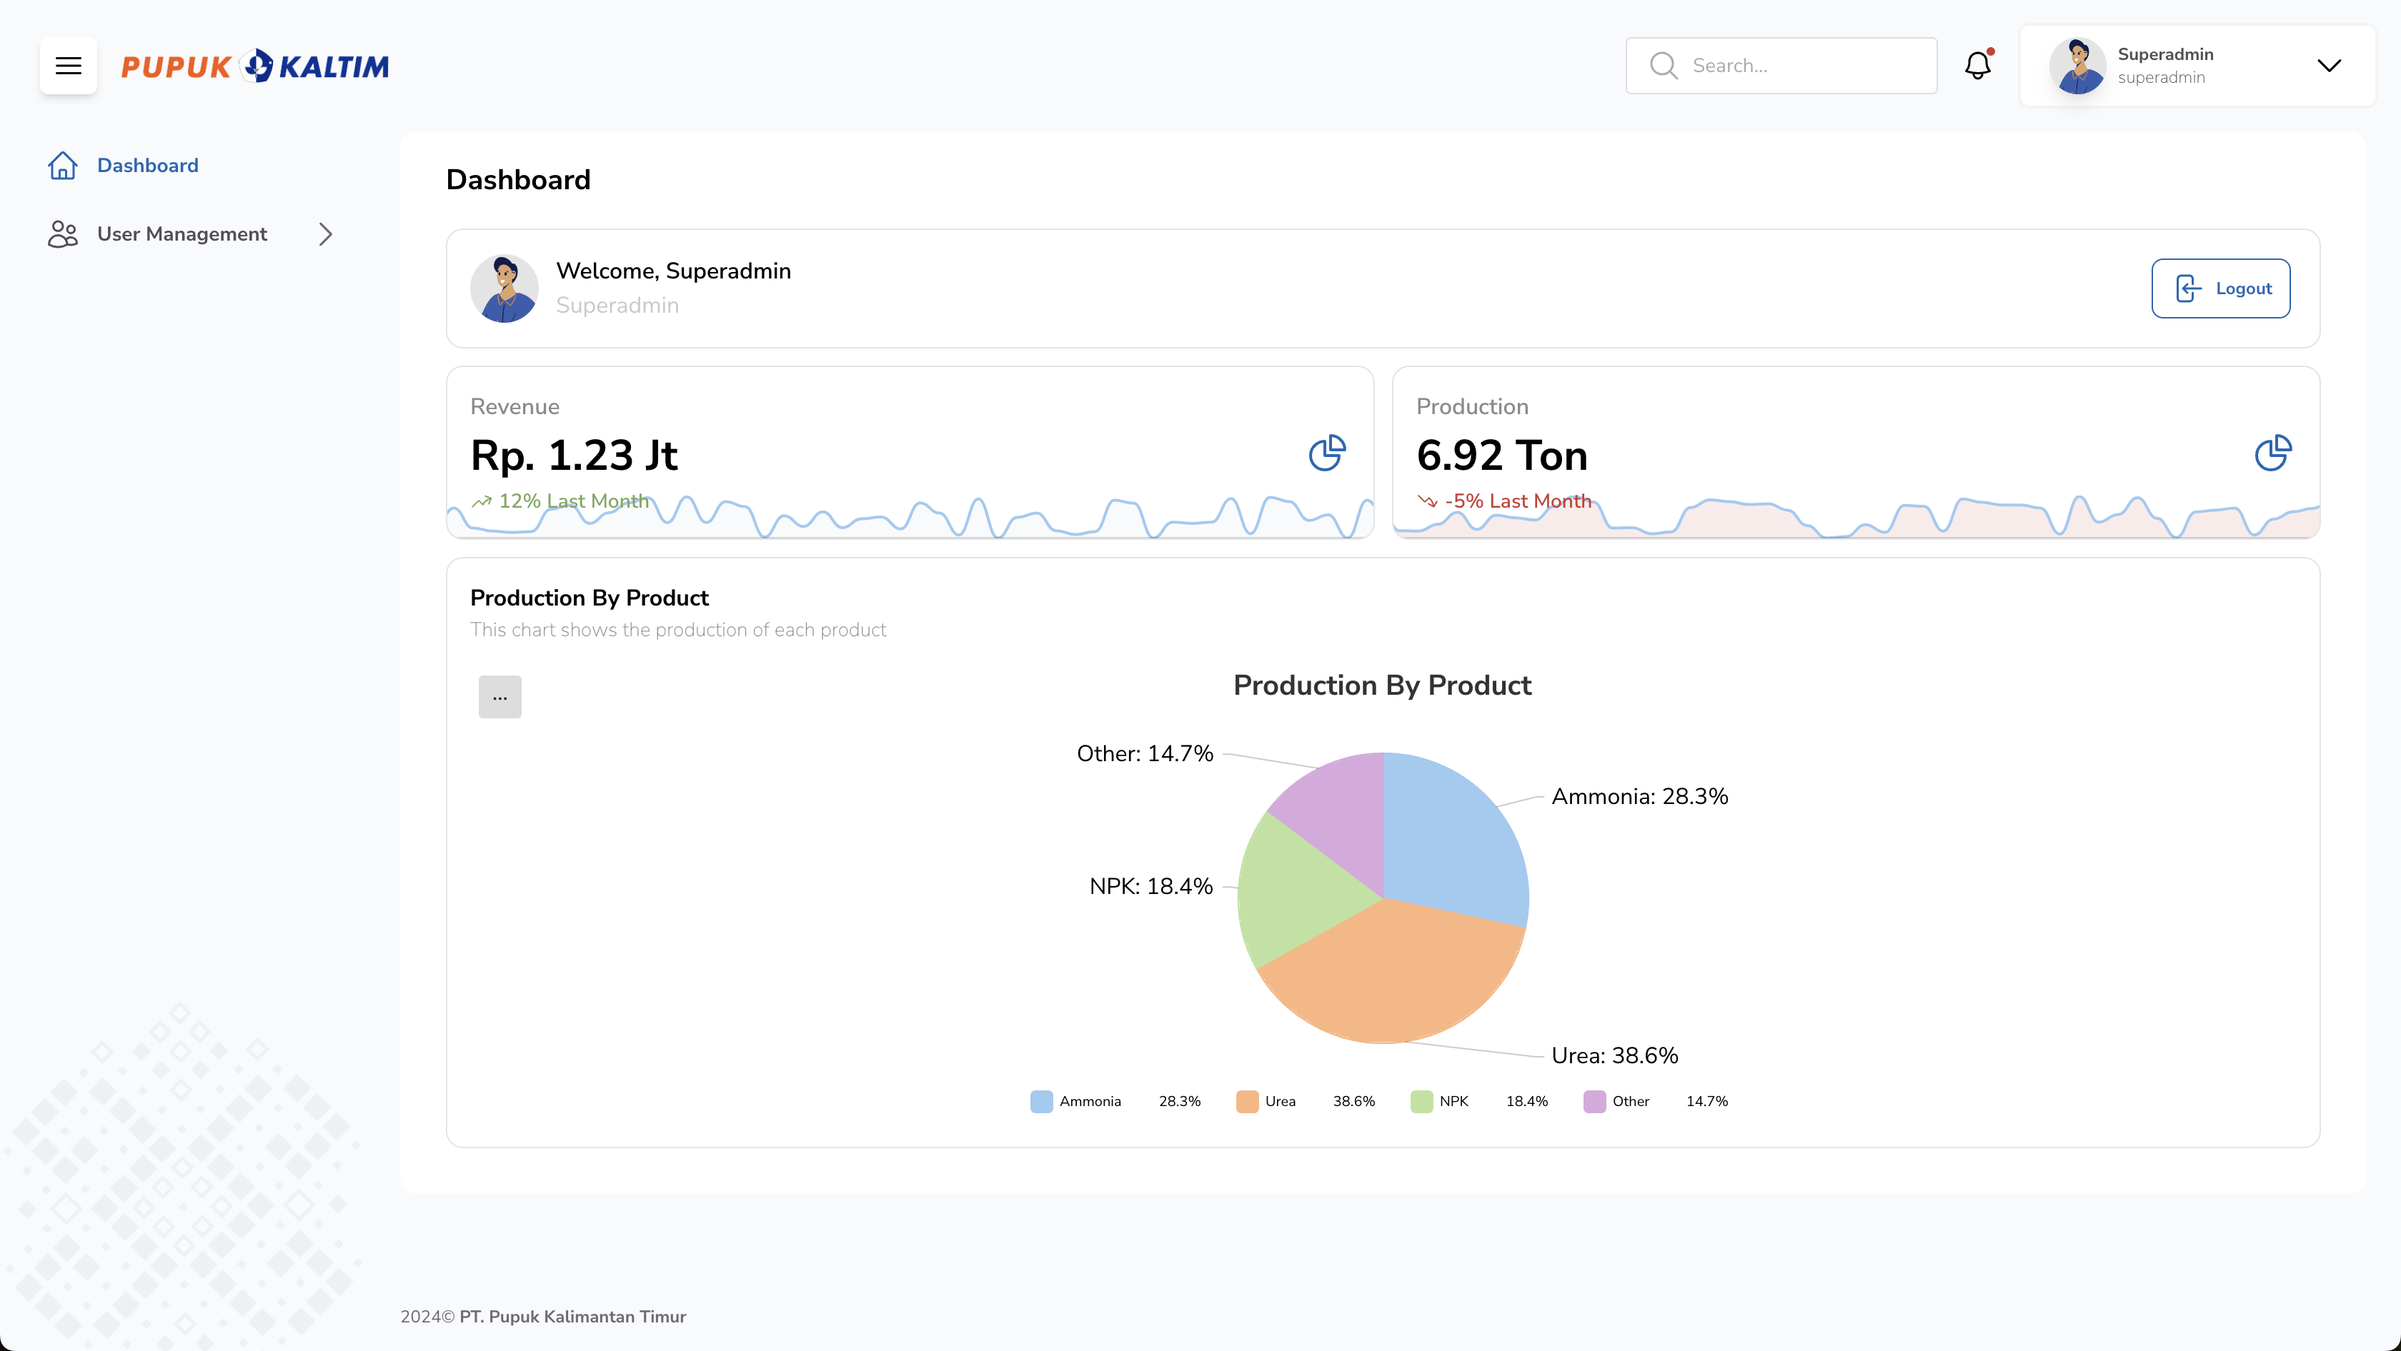
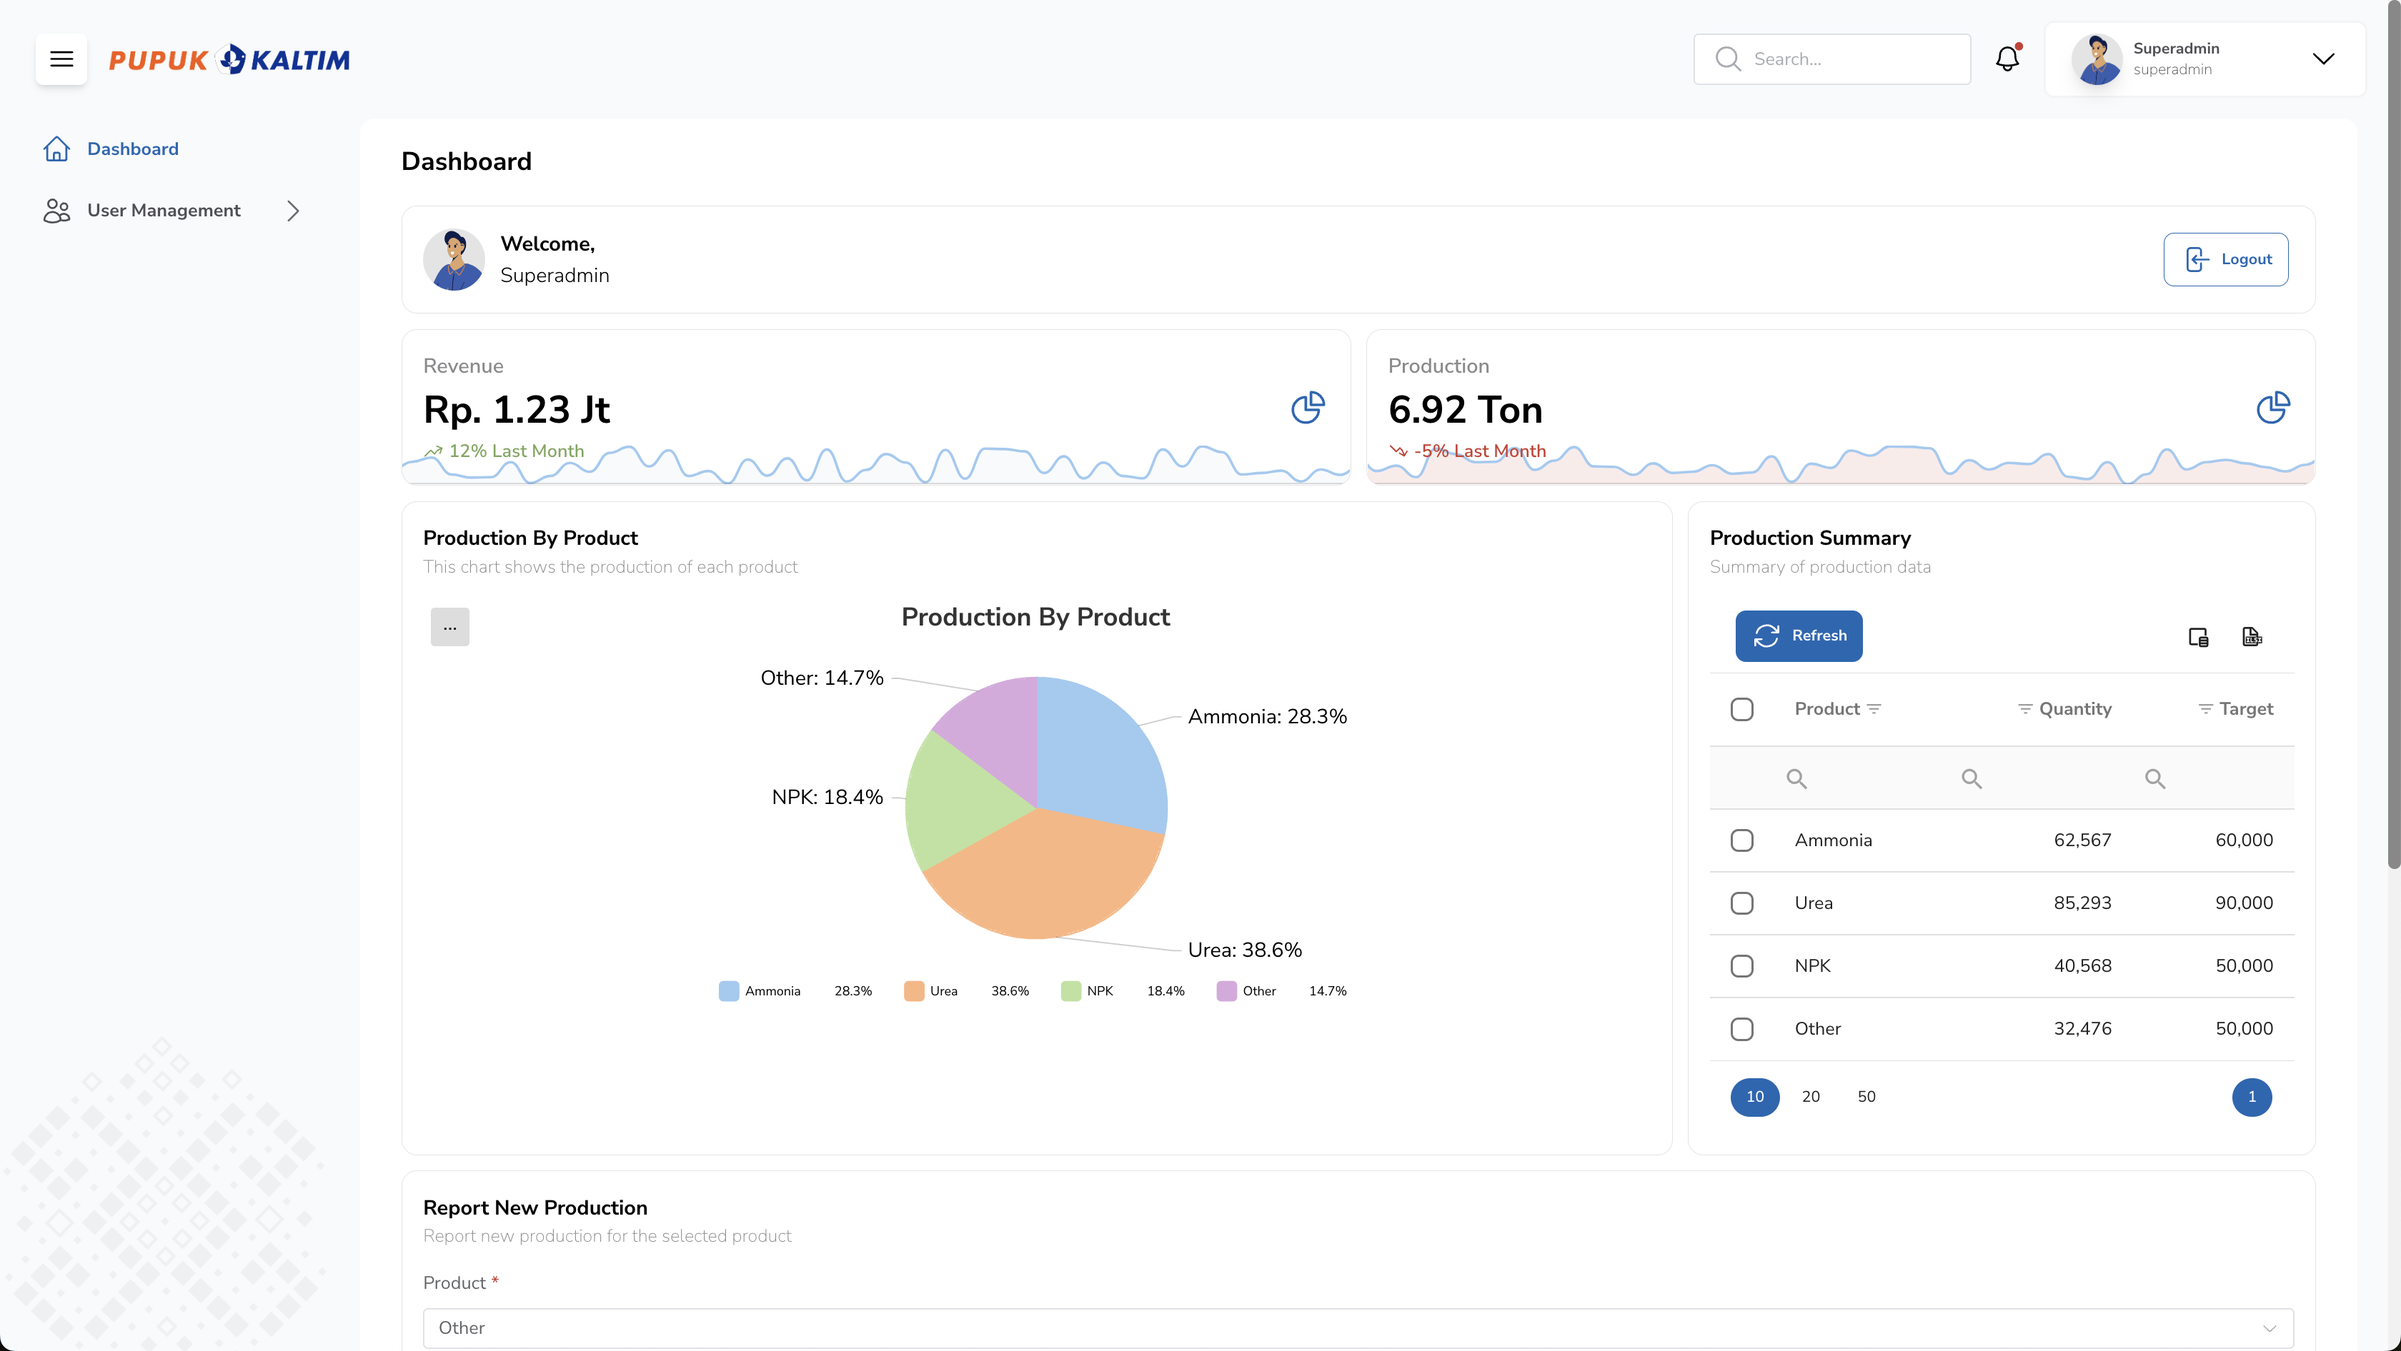
🎨 style(Home.png): update Home.png image file ✨ feat(Home.vue): add ProductionSummary and ReportNewProduction components to Home.vue to display production summary and allow reporting new production 📄 add(ProductionSummary.vue): add ProductionSummary component to display production summary data in a 

diff --git a/stubs/vue/resources/js/Widgets/Home/ProductionSummary.vue b/stubs/vue/resources/js/Widgets/Home/ProductionSummary.vue
@@ -1,0 +1,201 @@
+<template>
+    <div class="p-4 rounded-xl border border-gray-400 flex-1">
+    <div class="flex flex-row justify-between mb-4">
+        <div>
+            <div class="font-bold">Production Summary</div>
+            <div class="font-thin text-gray-700 text-sm">Summary of production data</div>
+        </div>
+    </div>
+    <div>
+        <DxDataGrid ref="datagridRef" :data-source="dataSource" key="product_id" :column-auto-width="true"
+            :remote-operations="remoteOperations" :item-per-page="10" @selection-changed="onSelectionChanged"
+            @exporting="onExporting">
+            <DxFilterRow :visible="true" />
+            <DxExport :enabled="true" />
+            <DxSelection select-all-mode="page" show-check-boxes-mode="always" mode="multiple" />
+            <DxColumnChooser :enabled="true" mode="select" />
+            <DxHeaderFilter :visible="true" />
+            <DxPaging :page-size="10" />
+            <DxPager :visible="true" :allowed-page-sizes="[10, 20, 50]" :show-page-size-selector="true" />
+
+            <!-- End your column here -->
+            <DxColumn data-field="product" caption="Product" />
+            <DxColumn data-field="quantity" caption="Quantity" :dataType="'number'">
+                <DxFormat type="fixedPoint" :precision="0" />
+            </DxColumn>
+            <DxColumn data-field="target" caption="Target" :dataType="'number'">
+                <DxFormat type="fixedPoint" :precision="0" />
+            </DxColumn>
+            <!-- End your column here -->
+
+            <DxToolbar>
+                <DxItem location="before" template="buttonTemplate" />
+                <DxItem name="columnChooserButton" />
+                <DxItem name="exportButton" />
+            </DxToolbar>
+            <template #buttonTemplate>
+                <div class="flex flex-row w-full">
+                    <Transition name="fadetransition" mode="out-in" appear>
+                        <div v-if="!itemSelected">
+                            <BsButton type="primary" icon="arrow-path" @click="refreshDatagrid">Refresh</BsButton>
+                        </div>
+                        <div v-else class="h-auto flex items-center px-4">
+                            <BsIconButton icon="x-mark" class="mr-2" @click="clearSelection" />
+                            <span class="font-bold mr-4">{{ dataSelected.length }} dipilih</span>
+                        </div>
+                    </Transition>
+                </div>
+            </template>
+        </DxDataGrid>
+    </div>
+</div>
+</template>
+
+<script setup>
+import { defineProps, ref, computed } from 'vue';
+import BsButton from '@/Components/BsButton.vue';
+import BsIconButton from '@/Components/BsIconButton.vue';
+import {
+    DxColumn,
+    DxColumnChooser,
+    DxDataGrid,
+    DxExport,
+    DxFormat,
+    DxHeaderFilter,
+    DxFilterRow,
+    DxItem,
+    DxPager,
+    DxPaging,
+    DxSelection,
+    DxToolbar
+} from 'devextreme-vue/data-grid';
+import CustomStore from "devextreme/data/custom_store";
+import { exportDataGrid } from 'devextreme/excel_exporter';
+import { Workbook } from 'exceljs';
+import { saveAs } from 'file-saver';
+
+const props = defineProps({
+    dataSource: {
+        type: Array,
+        // Only for dummy data, you can remove this
+        default: () => {
+            let data = [];
+            for (let i = 0; i < 50; i++) {
+                data.push({
+                    product_id: i + 1,
+                    product: `Product ${i + 1}`,
+                    quantity: Math.floor(Math.random() * 100),
+                    target: Math.floor(Math.random() * 100),
+                });
+            }
+            return data;
+        },
+    }
+});
+
+// Ref and Variables
+const datagridRef = ref();
+const allMode = ref("page");
+const dataGridAction = ref("index");
+const btnEditVisible = ref(false);
+const btnDeleteVisible = ref(false);
+const dataSelected = ref([]);
+var itemSelected = computed(() => dataSelected.value.length > 0);
+
+// Remote Operations
+const remoteOperations = ref({
+    paging: true,
+    filtering: true,
+    sorting: true,
+});
+
+function isNotEmpty(value) {
+    return value !== undefined && value !== null && value !== "";
+};
+
+// ========================================================================
+// If you want to use server side processing
+// ========================================================================
+// const dataSource = new CustomStore({
+//     key: "user_id",
+//     load: function (loadOptions) {
+//         let params = "?";
+//         ["skip", "take", "requireTotalCount", "sort", "filter"].forEach(
+//             function (i) {
+//                 if (i in loadOptions && isNotEmpty(loadOptions[i])) {
+//                     params += `${i}=${JSON.stringify(loadOptions[i])}&`;
+//                 }
+//             }
+//         );
+//         params = params.slice(0, -1);
+
+//         if (dataGridAction.value == "select.all") {
+//             if (allMode.value == "allPages") {
+//                 return axios.get(route('user.data_processing'), { params: params })
+//                     .then((response) => {
+//                         dataGridAction.value = "index";
+//                         data = response.data;
+//                     })
+//                     .catch((error) => { });
+//             } else {
+//                 dataGridAction.value = "index";
+//             }
+//         } else {
+//             return axios.get(route('user.data_processing') + params)
+//                 .then((response) => {
+//                     dataGridAction.value = "index";
+//                     return response.data;
+//                 })
+//                 .catch((error) => { });
+//         }
+//     }.bind(this),
+// });
+
+// On Refresh Datagrid
+function refreshDatagrid() {
+    datagridRef.value.instance.refresh();
+};
+
+// On Selection Changed
+function onSelectionChanged(data) {
+    dataSelected.value = data.selectedRowsData;
+
+    if (data.selectedRowKeys.length < 1) {
+        btnEditVisible.value = false;
+        btnDeleteVisible.value = false;
+    } else if (data.selectedRowKeys.length == 1) {
+        btnEditVisible.value = true;
+        btnDeleteVisible.value = true;
+    } else {
+        btnEditVisible.value = false;
+        btnDeleteVisible.value = false;
+    }
+};
+
+// On Exporting
+function onExporting(e) {
+    const workbook = new Workbook();
+    const worksheet = workbook.addWorksheet('Production Summary');
+    var fileName = "data-Production Summary"
+
+    exportDataGrid({
+        component: e.component,
+        worksheet,
+        autoFilterEnabled: true,
+    }).then(() => {
+        workbook.xlsx.writeBuffer().then((buffer) => {
+            saveAs(new Blob([buffer], { type: 'application/octet-stream' }), fileName + '.xlsx');
+        });
+    });
+
+    e.cancel = true;
+};
+
+// Clear Selection
+function clearSelection() {
+    const dataGrid = datagridRef.value.instance;
+    dataGrid.clearSelection();
+    dataSelected.value = [];
+}
+
+</script>

diff --git a/stubs/vue/resources/js/Widgets/Home/ReportNewProduction.vue b/stubs/vue/resources/js/Widgets/Home/ReportNewProduction.vue
@@ -1,0 +1,139 @@
+<template>
+    <div class="p-4 rounded-xl border border-gray-400 flex-1">
+        <div class="flex flex-row justify-between mb-4">
+            <div>
+                <div class="font-bold">Report New Production</div>
+                <div class="font-thin text-gray-700 text-sm">Report new production for the selected product</div>
+            </div>
+        </div>
+        <div>
+            <el-form ref="formRef" :model="form" label-width="200px" label-position="top"
+                require-asterisk-position="right" autocomplete="off">
+
+                    <!-- Your form here -->
+                    <el-form-item :error="getFormError('product_id')" prop="product_id" label="Product" :required="true">
+                        <el-select v-model="form.product_id" placeholder="Select Product" class="!w-full">
+                            <el-option v-for="item in product" :key="item.product_id" :label="item.product" :value="item.product_id" />
+                        </el-select>
+                    </el-form-item>
+
+                    <div class="grid sm:grid-cols-2 gap-3">
+                        <el-form-item :error="getFormError('quantity')" prop="quantity" label="Quantity" :required="true">
+                            <el-input type="number" v-model="form.quantity" autocomplete="one-time-code" autocorrect="off" spellcheck="false" class="!w-full" />
+                        </el-form-item>
+                        <el-form-item :error="getFormError('target')" prop="target" label="Target" :required="true">
+                            <el-input type="number" v-model="form.target" autocomplete="one-time-code" autocorrect="off" spellcheck="false" class="!w-full" />
+                        </el-form-item>
+                    </div>
+
+                    <el-form-item :error="getFormError('media_report')" prop="media_report" label="Report" :required="true">
+                        <el-upload
+                            drag
+                            v-model:file-list="form.media_report"
+                            class="!w-full"
+                            :auto-upload="false"
+                            :limit="1"
+                            accept="image/jpeg,image/png,application/pdf"
+                        >
+                            <el-icon class="el-icon--upload"><upload-filled /></el-icon>
+                            <div class="el-upload__text">
+                            Drop file here or <em>click to upload</em>
+                            </div>
+                            <template #tip>
+                            <div class="el-upload__tip">
+                                jpg/png/pdf files with a size less than 5MB
+                            </div>
+                            </template>
+                        </el-upload>
+                    </el-form-item>
+                    <!-- End your form here -->
+
+                <el-button type="primary" @click="submitForm">
+                    <BsIcon icon="rocket-launch" class="mr-3"></BsIcon> Submit
+                </el-button>
+            </el-form>
+        </div>
+    </div>
+</template>
+
+<script setup>
+import { defineProps, ref } from 'vue';
+import { useForm } from '@inertiajs/vue3';
+import { ElMessage } from 'element-plus';
+import { UploadFilled } from '@element-plus/icons-vue';
+import { ElLoading } from 'element-plus';
+import BsIcon from '@/Components/BsIcon.vue';
+
+const props = defineProps({
+    product: {
+        type: Array,
+        required: true,
+    },
+    form: {
+        type: Object,
+        // Only for dummy data, you can remove this
+        default: () => useForm({
+            id: null,
+            product_id: null,
+            quantity: null,
+            target: null,
+            media_report: [],
+        })
+    },
+});
+
+const formRef = ref();
+const formErrors = ref([]);
+const getFormError = (field, errors = formErrors.value) => {
+    if (!errors && !errors.length) {
+        return false
+    }
+    if (errors[field]) {
+        return errors[field]
+    }
+}
+
+const submitForm = async () => {
+    formErrors.value = [];
+
+    await formRef.value.validate(async (valid, _) => {
+        if (valid) {
+
+            // Show fake loading spinner
+            const loading = ElLoading.service({
+                lock: true,
+                customClass: "spinner-loading-img",
+                spinner: "disable-default-spinner",
+            });
+            setTimeout(() => {
+                loading.close();
+                ElMessage({
+                    message: 'Form submitted successfully',
+                    type: 'success',
+                });
+            }, 2000);
+
+            // Set the route to the form action
+            form.post(route('...'), {
+                preserveScroll: true,
+                onSuccess: (response) => {
+                    ElMessage({
+                        message: response.props.flash.message,
+                        type: 'success',
+                    });
+                },
+                onError: (errors) => {
+                    formErrors.value = errors;
+                    if('message' in errors){
+                        ElMessage({
+                            message: errors.message,
+                            type: 'error',
+                        });
+                    }
+                }
+            });
+        }
+    });
+}
+
+</script>

diff --git a/stubs/vue/resources/js/Pages/Home.vue b/stubs/vue/resources/js/Pages/Home.vue
@@ -6,7 +6,11 @@
             <RevenueStat />
             <ProductionStat />
         </div>
-        <ProductionGraph :dataSource="dataSource" />
+        <div class="grid grid-cols-3 gap-3 mb-3">
+            <ProductionGraph class="col-span-full md:col-span-2" :dataSource="dataSource" />
+            <ProductionSummary class="col-span-full md:col-auto" :dataSource="dataSource" />
+        </div>
+        <ReportNewProduction :product="dataSource" />
     </MainLayout>
 </template>
 <script setup>
@@ -17,6 +21,8 @@ import RevenueStat from '@/Widgets/Home/RevenueStat.vue';
 import ProductionStat from '@/Widgets/Home/ProductionStat.vue';
 import Welcome from '@/Widgets/Home/Welcome.vue';
 import ProductionGraph from '@/Widgets/Home/ProductionGraph.vue';
+import ProductionSummary from '@/Widgets/Home/ProductionSummary.vue';
+import ReportNewProduction from '@/Widgets/Home/ReportNewProduction.vue';
 
 const dataSource = [{
     "product_id": 1,

diff --git a/stubs/vue/resources/js/Widgets/Home/Welcome.vue b/stubs/vue/resources/js/Widgets/Home/Welcome.vue
@@ -4,8 +4,8 @@
             <div class="flex items-center gap-3 flex-wrap justify-center">
                 <BsProfilePicture :npk="npk" class="rounded-full w-12 h-12" />
                 <div class="text-center sm:text-left">
-                    <h1 class="font-semibold">Welcome, {{ name }}</h1>
-                    <p class="text-gray-500">{{ roles }}</p>
+                    <h1 class="font-bold">Welcome,</h1>
+                    <p class="font-light">{{ name }}</p>
                 </div>
             </div>
 
@@ -28,7 +28,6 @@ const props = defineProps({
 
 const npk = usePage().props.auth.user.npk;
 const name = usePage().props.auth.user.name;
-const roles = usePage().props.auth.user?.roles?.map(role => role.name).join(', ');
 
 const logout = () => {
     router.post(route('logout'));
